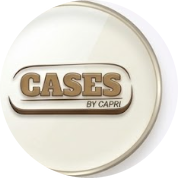
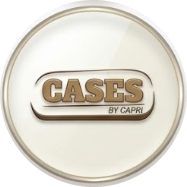
fix(marca): medallones de marca re-recortados concentricos (deteccion del disco por celda) y azulejos de forma con la montura GRANDE y recortes limpios
Claude-Session: https://claude.ai/code/session_012jNjqC2y8VbkoH5FWGKcFx

diff --git a/apps/capri-storefront/src/styles/index.css b/apps/capri-storefront/src/styles/index.css
@@ -7720,3 +7720,34 @@ h1, h2, .section-title { letter-spacing: -0.022em; }
 .brand-circle img { width: 100%; height: 100%; object-fit: cover; border-radius: 50%; }
 .brand-circle:hover { border-color: transparent; box-shadow: 0 14px 30px -12px rgba(10, 25, 60, .35); }
 .brand-circle.is-active { box-shadow: 0 0 0 3px #fff, 0 0 0 5px var(--blue), 0 14px 30px -12px rgba(10,25,60,.35); }
+
+/* ETAPA 108 — Azulejos de forma: la MONTURA manda (antes quedaba pequeña en
+   un azulejo con mucho aire). Foto grande, azulejo compacto, pie discreto.
+   Dónde se usa: portada, sección "Compra por forma" (src/pages/Home.jsx). */
+.shape-tile { padding: 18px 14px 12px; gap: 10px; }
+.shape-ico-photo img {
+  width: 92%; max-width: 230px; height: 96px; object-fit: contain;
+  filter: drop-shadow(0 10px 16px rgba(10, 25, 60, .16));
+}
+.shape-name { font-size: 13.5px; letter-spacing: .02em; }
+.split-30-70 .shape-row { gap: 16px; }
+@media (max-width: 900px) {
+  .shape-ico-photo img { height: 78px; max-width: 190px; }
+}
+@media (max-width: 560px) {
+  .shape-ico-photo img { height: 64px; max-width: 160px; }
+  .shape-tile { padding: 14px 10px 10px; }
+}
+
+/* ETAPA 108b — El azulejo base medía 132px de ancho (de la época del icono de
+   línea): la foto quedaba diminuta. El azulejo crece y la montura lo llena. */
+.shape-tile { width: 100%; max-width: 250px; }
+.split-30-70 .shape-row { grid-template-columns: repeat(3, minmax(170px, 230px)); justify-content: start; }
+.shape-ico-photo img { width: 94%; max-width: 215px; height: 92px; }
+@media (max-width: 900px) {
+  .split-30-70 .shape-row { grid-template-columns: repeat(2, minmax(150px, 1fr)); }
+  .shape-ico-photo img { height: 80px; }
+}
+@media (max-width: 560px) {
+  .shape-ico-photo img { height: 68px; }
+}
